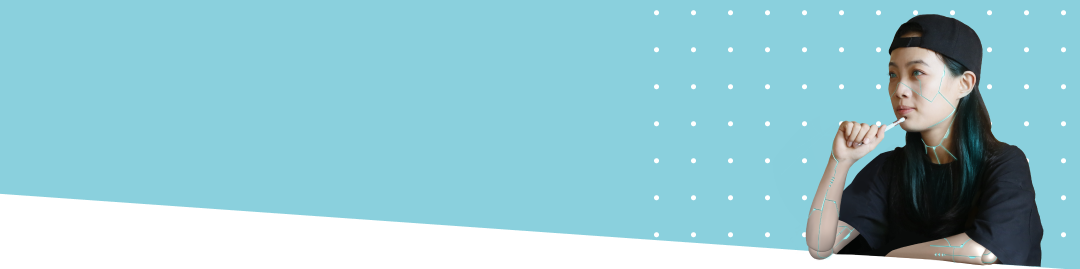
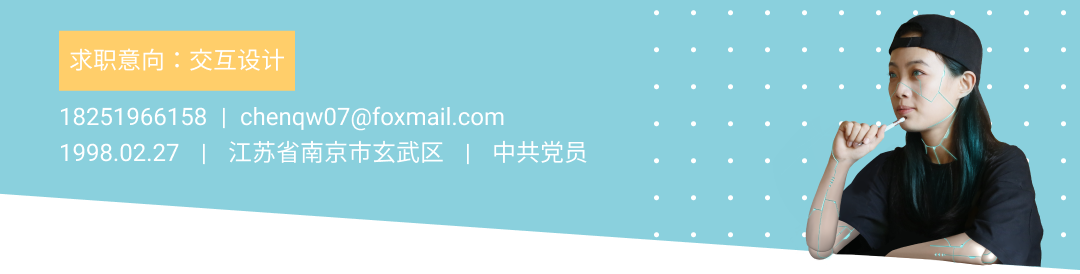
1

diff --git a/index.html b/index.html
@@ -43,8 +43,8 @@
     <h2 id="titleName" class="sectionHead">陈倩雯</h2>
 
     <!--BASE INFORMATION-->
-    <div id="bio">
-        <h2>求职意向：交互设计 / 用户体验</h2>
+    <!-- <div id="bio">
+        <h2>求职意向：交互设计 / 用户体验</h2> -->
         <!--BASE INFORMATION - SOCIAL LINKS-->
         <div id="socialIcons">
             <a class="socialIcon" id="phoneIcon" href="#18251966158" title="18251966158" ></a>
@@ -61,7 +61,10 @@
         </div>
         <!--END SOCIAL LINKS-->
 
-       <li sclas="bwWrapper"><img src="images\new_folder\表头.png" alt="封面.png"/></li>
+        <ul id="seenOn">
+    
+            <li sclas="bwWrapper"><img src="images\new_folder\简历2.png" alt="封面.png"/></li>
+        </ul>
         <!-- <table border='0'>
             <tr>
                 <td width="75%">
@@ -85,18 +88,18 @@
     <!--CONTACT TITLE-->
     <!-- <h2 id="contact" class="sectionHead">联系我</h2> -->
      <!--BASE INFORMATION - PERSONAL INFORMATION-->
-        <p>
+        <!-- <h2>
             电话：18251966158
-            </p>
+             </h2>
         <p>
             邮箱：chenqw07@foxmail.com
-             </p>
+        </h2>
         <p>
             地址：江苏省南京市玄武区孝陵卫200号南京理工大学
              </p>
          <p>
             邮编：210094
-             </p>
+             </p> -->
     
      <!--END PERSONAL INFORMATION-->
     
@@ -319,8 +322,6 @@
         <li class="bwWrapper"><img src="images\new_folder\其他\幻灯片	49	.PNG" alt="幻灯片	49	.PNG"/></li>
         <li class="bwWrapper"><img src="images\new_folder\其他\幻灯片	50	.PNG" alt="幻灯片	50	.PNG"/></li>
         <li class="bwWrapper"><img src="images\new_folder\其他\幻灯片	51	.PNG" alt="幻灯片	51	.PNG"/></li>
-        
-        
         <li class="bwWrapper"><img src="images\new_folder\封底.png" alt="封底.png"/></li>
     
      

diff --git a/css/print.css b/css/print.css
@@ -74,7 +74,7 @@ h3 {
 
 #bio p {
     clear: left;
-    margin: 20px 0 10px;
+    margin: 200px 0 10px;
     padding: 0;
     background: none;
     border: none;
@@ -136,7 +136,7 @@ ul#seenOn li img {
     padding: 3px;
     border: 1px solid rgb(234, 0, 255);
     margin-right: 2000px;
-    width: auto;
+    width: 100%;
     height: 20px;
 }
 

diff --git a/css/style.css b/css/style.css
@@ -733,7 +733,7 @@ body.respond ul#seenOn li {
 }
 
 body.respond ul#seenOn li img {
-    width: 96%;
+    width: 1080px;
     height: auto;
     padding: 2%;
 }
